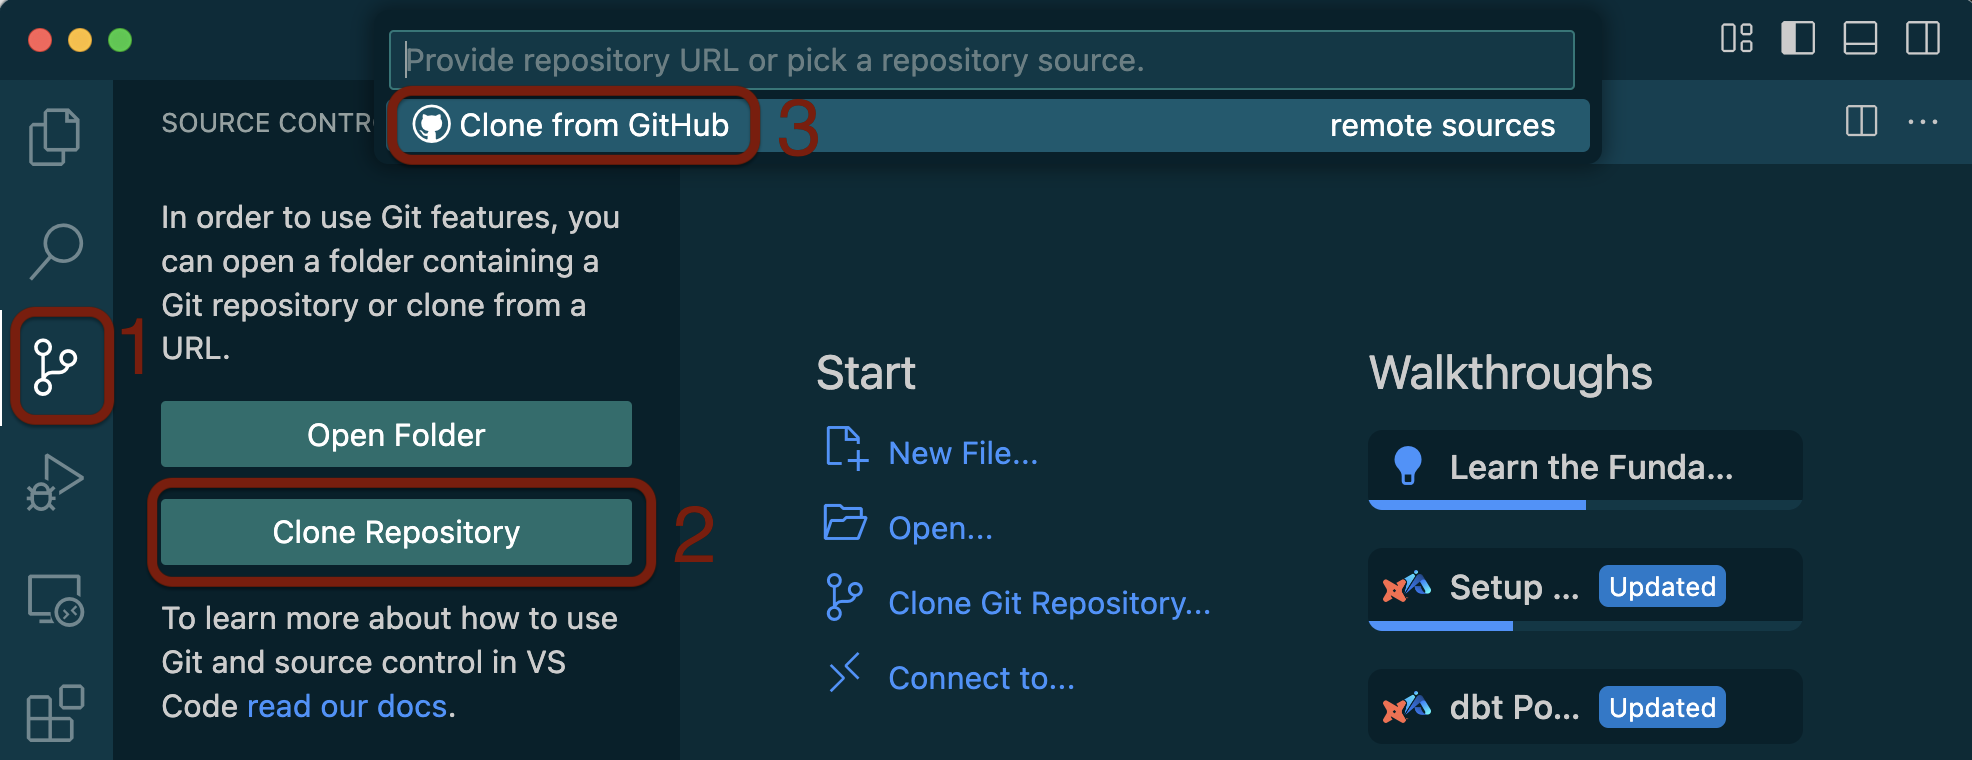
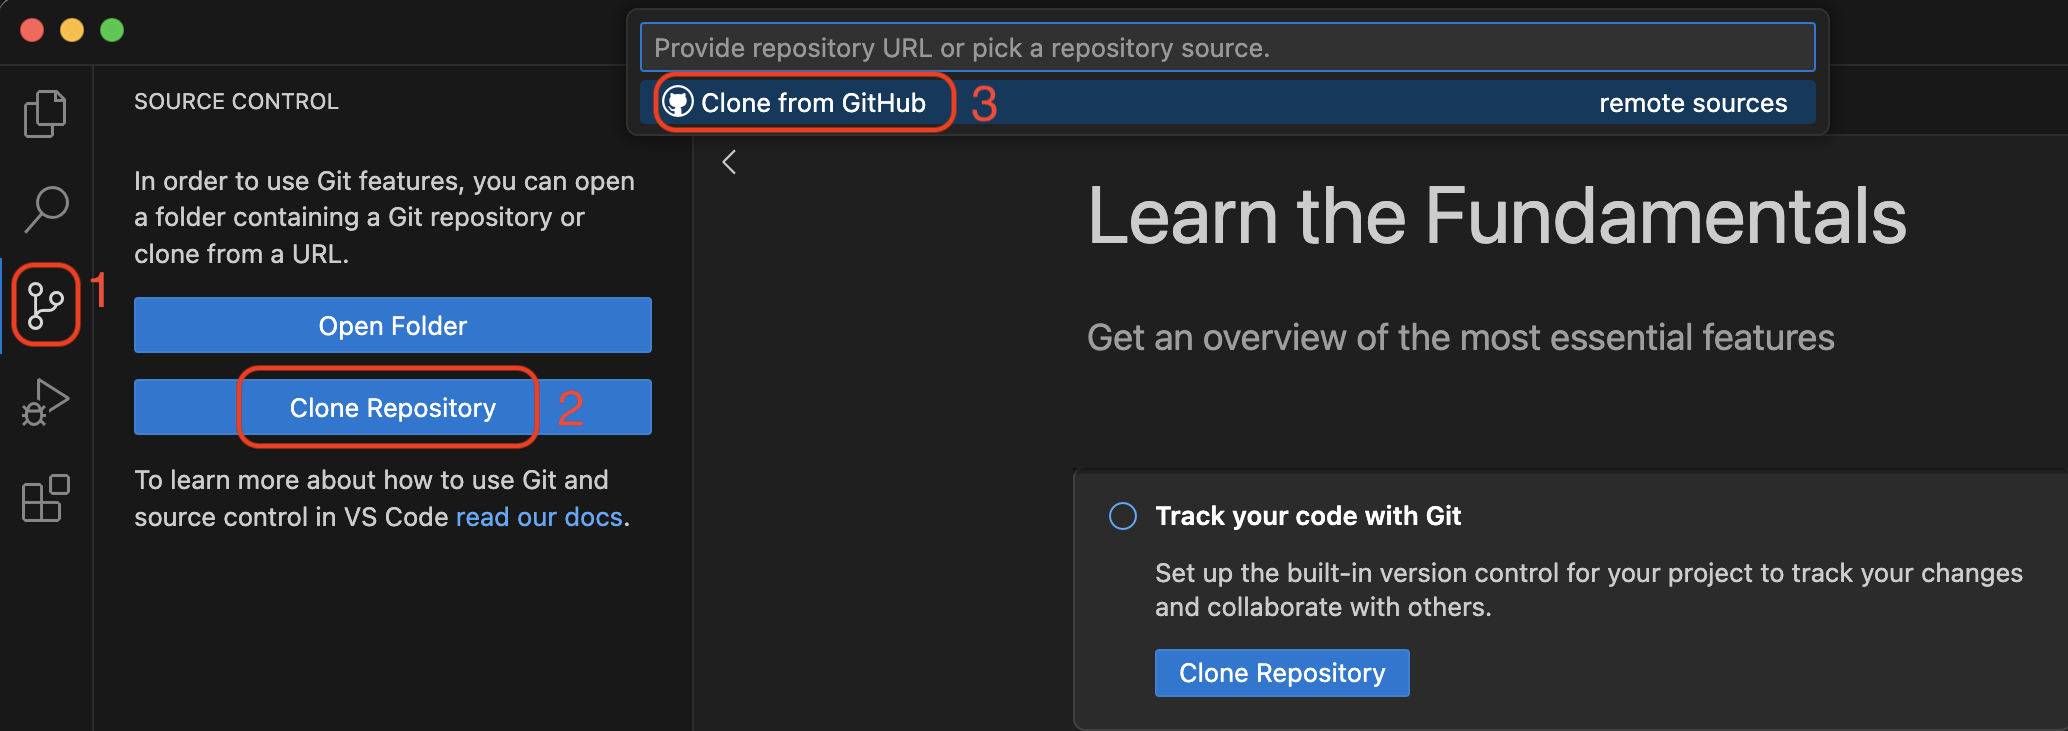
add new screenshots and update lessons

diff --git a/episodes/8_conflicts.md b/episodes/8_conflicts.md
@@ -54,7 +54,7 @@ and commit that change to the `main` branch
 
 ```bash
 $ git add earth.txt
-$ git commit -m "Add invaders retreat."
+$ git commit -m "Add invaders retreat"
 ```
 
 ```output
@@ -192,16 +192,15 @@ Git detects that the changes made in one copy overlap with those made
 in the other and stops us from trampling on our previous work. It also
 marks that conflict in the affected file, `earth.txt`.
 
-! screenshot here
+![Merge conflict in earth.txt](fig/vscode-merge-conflict.png)
 
-Our change—the one at the `HEAD` of the `main` branch—is preceded by `<<<<<<<`.
+Our change — the one at the `HEAD` of the `main` branch — is preceded by `<<<<<<<`.
 Git has then inserted `=======` as a separator between the conflicting changes
 and marked the end of our commit from the `loki-twist` branch with `>>>>>>>`.
 (The string of letters and digits after that marker
 identifies the commit we made in the `loki-twist` branch.)
 
-It is now up to us to edit this file to remove these markers
-and reconcile the changes.
+It is now up to us to edit this file and reconcile the changes.
 We can do anything we want: keep the change made in the `main` branch, keep
 the change made in the `loki-twist` branch, write something new to replace both,
 or get rid of the change entirely.
@@ -209,6 +208,8 @@ or get rid of the change entirely.
 Let's keep both of these events, but save Loki's reveal for after the invaders reatreat.
 
 VS Code will prompt you to "Resolve in Merge Editor". Click this button.
+
+![Resolving the merge conflict with the merge editor](fig/vscode-merge-editor.png)
 
 In the Merge Editor, you will see the two versions side by side, and the final version of the file below. We want the final version to look like:
 
@@ -223,6 +224,8 @@ Loki appears, revealing the invasion was his test all along.
 
 So we want to click "Accept Combination (Current First)". You should now see the resolved version with both lines, the line from the `main` branch first. Click "Complete Merge".
 
+![The bottom pane contains the resolved earth.txt contents](fig/vscode-merge-resolved.png)
+
 By clicking "Complete Merge", you are doing the same thing as running the command `git add earth.txt`. If you open the Source Control pane, you should see `earth.txt` under "Staged Changes". You can then complete the commit using the VS Code UI or on the command line
 
 ```bash
@@ -234,9 +237,6 @@ $ git commit -m "Merge changes from loki-twist"
 ```
 
 Take a look at the Source Control Graph window (in the lower portion of the Source Control pane) for a visual representation of the git log.
-
-Git keeps track of what we've merged with what,
-so we don't have to fix things by hand again.
 
 ```
 $ git log
@@ -306,6 +306,8 @@ Fast-forward
  1 file changed, 1 insertions(+), 0 deletions(-)
 ```
 
+Git keeps track of what we've merged with what,
+so we don't have to fix things by hand again.
 There is no conflict and our changes are added automatically.
 
 Finally, let's update our remote repository:
@@ -360,48 +362,20 @@ Conflicts can also be minimized with project management strategies:
 
 :::::::::::::::::::: challenge
 
-## Create a conflict between branches and resolve it
+## Practice resolving conflicts with a partner
 
-- Create a new branch off of the main branch
-- Make a change to a file in the main branch
-- Change to the new branch
-- Make a change to the same line in the same file
-- Change back to the main branch
-- Merge the new branch into the main branch
-- Address the resulting conflict in the text editor of your choice
-- Add the file containing the conflict and commit conflict resolution to the repository
+You can repeat this exercise twice, once in your `multiverse` repo, and once in your partner's.
 
-::::::::::::::::::::::::::::: solution
-## Solution
+You will first need to clone your partner's `multiverse` repo in order to make edits in it.
 
-```bash
-# to make sure we're starting in the main branch
-$ git checkout main 
-# create a new branch, but don't change into it
-$ git branch new_branch 
-# make a change to the file
-$ nano earth.txt 
-# add changes in earth.txt to the staging area
-$ git add earth.txt 
-$ git commit -m "Small change to earth.txt"
-# switch to the new branch
-$ git checkout new_branch 
-# make a change to earth.txt on the same line
-$ nano earth.txt 
-# add changes in earth.txt to the staging area
-$ git add earth.txt 
-$ git commit -m "Another change to earth.txt"
-# change back to the main branch
-$ git checkout main 
-# attempt to merge the branches
-$ git merge new_branch 
-# address conflicts by removing `<<<`, `===`, and `>>>` lines leaving the desired changes intact
-$ nano earth.txt
-$ git add earth.txt
-$ git commit -m "Resolving conflict in earth.txt."
-```
+You will each create a new branch in the same `multiverse` repo, and make a small conflicting change (e.g. adding two different lines to the end of `earth.txt`). 
 
-:::::::::::::::::::::::::::
+The repo owner should then create a Pull Request and merge their branch first.
+
+The other person should then create a Pull Request to merge their branch. They will get a merge conflict. 
+
+In VS Code, they can merge main into their branch and resolve the conflict, then push the commit with the resolved merge to GitHub. They should now be able to merge their branch into main as well.
+
 ::::::::::::::::::::::::::::::::
 
 :::::::::::::::::::::::::::::::::::::::: keypoints

diff --git a/episodes/2_create-repo.md b/episodes/2_create-repo.md
@@ -56,13 +56,13 @@ Check the box next to "Add a README file".
 
 Leave all other options as the default - your repo should be public, no gitignore selected, no license selected, and no template selected.
 
-![Create the multiverse repo in GitHub](fig/github-create-planets-repo.png)
+![Create the multiverse repo in GitHub](fig/github-create-multiverse-repo.png)
 
 Finally, click the green "Create Repository" button at the bottom right.
 
 You will be redirected to your newly created and empty `multiverse` repo.
 
-![Your new multiverse repo on GitHub](fig/github-empty-planets-repo.png)
+![Your new multiverse repo on GitHub](fig/github-new-multiverse-repo.png)
 
 ## Clone your multiverse repo to your local computer
 
@@ -76,7 +76,7 @@ In your new VS Code window, go to the "Source Control" pane (the 3rd one down). 
 
 If you don't immediately see your `multiverse` repo, you can search for it by typing "multiverse" in the search box. When you see your `multiverse` repo (it should have your username in the URL), click it.
 
-![Clone your multiverse repo via VS Code](fig/vscode-clone-planets-repo.png)
+![Clone your multiverse repo via VS Code](fig/vscode-clone-multiverse-repo.png)
 
 You will now need to choose where on your local computer the `multiverse` repo will live. You can choose any easily accessible location, such as the "Desktop" folder. It is standard practice to save all local repos in a folder named "GitHub" in your "Documents" folder.
 
@@ -96,7 +96,7 @@ If you are on a Mac or Linux computer, your default terminal should be sufficien
 
 You should now have your empty `multiverse` repo open, with a Bash terminal open, and you are ready to start typing your first git commands!
 
-![Ready to begin](fig/vscode-planets-open.png)
+![Ready to begin](fig/vscode-multiverse-repo-open.png)
 
 
 :::::::::::::::::::::::::::::::::::::::: keypoints

diff --git a/episodes/7_pull-request.md b/episodes/7_pull-request.md
@@ -32,13 +32,17 @@ On GitHub, in your `multiverse` repo, **click on the "Pull Requests" tab**.
 
 Then **click "New pull request"**. Alternatively, GitHub will see your new branch with recent changes and will prompt you to "Compare & pull request". Click this button to also be taken to the new pull request page.
 
+![Open a Pull Request on GitHub for branch heimdall-aware](fig/github-open-pr.png)
+
 Make sure that the "base" branch is `main` and the "compare" branch is `heimdall-aware`.
 
 Next, we need to give our PR a title. By default, your PR will get the title from your last commit. We can leave this as is.
 
 **Click "Create pull request"**.
 
-Your `multiverse` repo should now have 1 pull request. This is the phase where you would normally request a reviewer, who can leave comments on your code. In repos that you do not own, your PR will need to be approved by a codeowner before you can merge it. Since you are the codeowner, we can go ahead and **click "Merge pull request"**.
+![Pull Request is created](fig/github-pr-opened.png)
+
+Your `multiverse` repo should now have 1 pull request. This is the phase where you would normally request a reviewer, who can leave comments on your code. In repos that you do not own, your PR will need to be approved by a codeowner before you can merge it. Since you are the codeowner, we can go ahead and **click "Merge pull request"**. Confirm & complete the merge.
 
 Go back to the "Code" tab and make sure you are on the "main" branch. You should now see an "asgard.txt" file.
 

diff --git a/episodes/5_push-changes.md b/episodes/5_push-changes.md
@@ -111,9 +111,18 @@ Pulling has no effect in this case because the two repositories are already
 synchronized.  If someone else had pushed some changes to the repository on
 GitHub, though, this command would download them to our local repository.
 
-Let's verify that our changes made it to GitHub: go to your **browser window with the GitHub repo and refresh** the page. You should now see the `earth.txt` file. **Click on the file**, and you can see the contents of the file are the same as in VS Code.
+Let's verify that our changes made it to GitHub: go to your **browser window with the GitHub repo and refresh** the page. 
+
+![Changes have been pushed](fig/github-pushed-changes.png)
+
+You should now see the `earth.txt` file. **Click on the file**, and you can see the contents of the file are the same as in VS Code.
+
+![View earth.txt](fig/github-earth.png)
 
 Now **click on the "History" link**. You should see each commit made to the file, even though we only pushed once.
+
+![View earth.txt commits](fig/github-earth-history.png)
+
 
 :::::::::::::::::::::::::::::::::::::::: keypoints
 

diff --git a/episodes/0_setup.md b/episodes/0_setup.md
@@ -22,6 +22,8 @@ exercises: 0
 
 If you are participating in this workshop remotely (e.g. over Zoom), it is highly recommended that you use two screens: 1 screen with the remote meeting, to see the instructor sharing their screen, and 1 screen with your applications. You will need to have VS Code and a web browser open to GitHub.com in order to follow along.
 
+![Example Screen setup](fig/learner-setup-screenshot.png)
+
 :::::::::::::::::::::::::::::::::::::
 
 ## Create a GitHub account

diff --git a/episodes/6_branches.md b/episodes/6_branches.md
@@ -361,6 +361,8 @@ simply use `git push -u origin <branch-name>`.
 
 Now, we can go back to GitHub and verify that we have a new branch named heimdall-aware.
 
+![GitHub has the branch heimdall-aware](fig/github-branch-pushed.png)
+
 :::::::::::::::::::::::::::::::::::::::: keypoints
 
 - Branches can be useful for developing while keeping the main line static.
